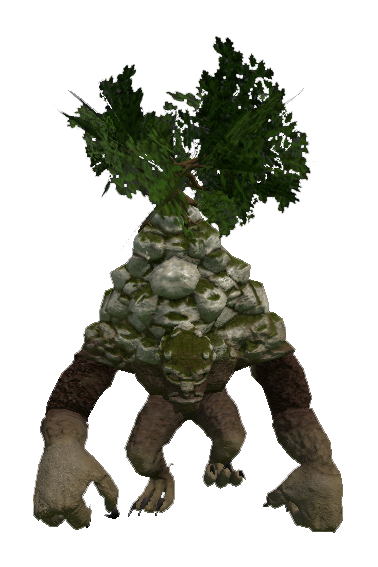
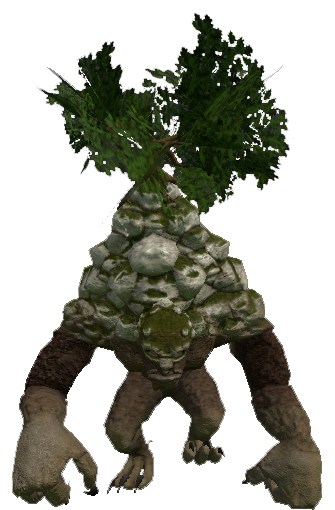
170207 14:07

Changed region(s): [[0.0299, 0.0294, 0.9851, 1.0], [0.6269, 0.2353, 0.6567, 0.2647], [0.597, 0.2059, 0.6269, 0.2353]]

diff --git a/1609_Team1/1609_Team1/ObjectManager.cpp b/1609_Team1/1609_Team1/ObjectManager.cpp
@@ -71,7 +71,7 @@ void ObjectManager::CreateCreature(OBJ_TAG tag, Vector pos)
 		colSize = Vector(200, 300) * scale;
 		anchor = Vector(0.5f, 0.95f);
 		pCreature->Animation()->Register(CREATURE_RUN, new Animation(TEXT("EntRun"), 9, 7, true, scale, anchor.x, anchor.y));
-		// pCreture->Animation()->Register(CREATURE_ATTACK, new Animation(TEXT("EntAttack"), 2, 10, false, 2.0f, anchor.x, anchor.y));
+		pCreature->Animation()->Register(CREATURE_ATTACK, new Animation(TEXT("EntAttack"), 4, 6, false, scale, anchor.x, anchor.y));
 		// pCreture->Animation()->Register(CREATURE_DEAD, new Animation(TEXT("EntDead"), 2, 10, false, 2.0f, anchor.x, anchor.y));
 		break;
 	}	
